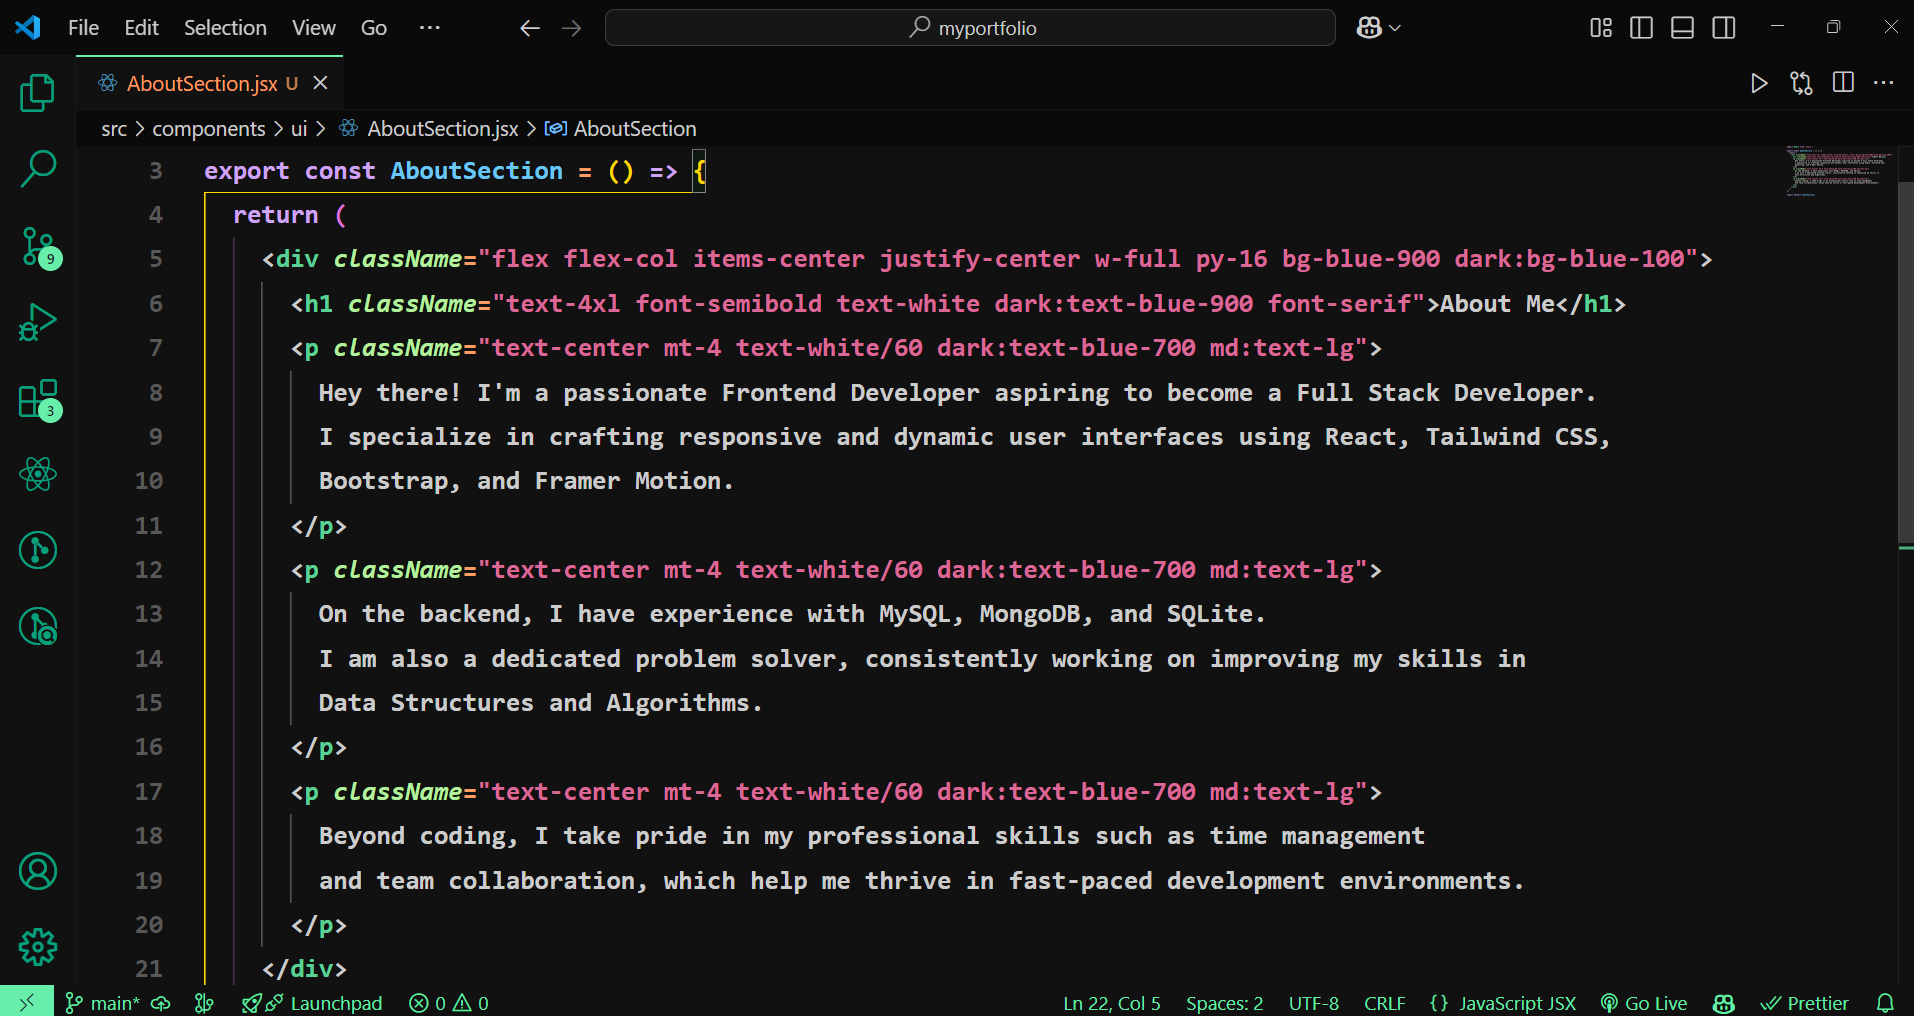
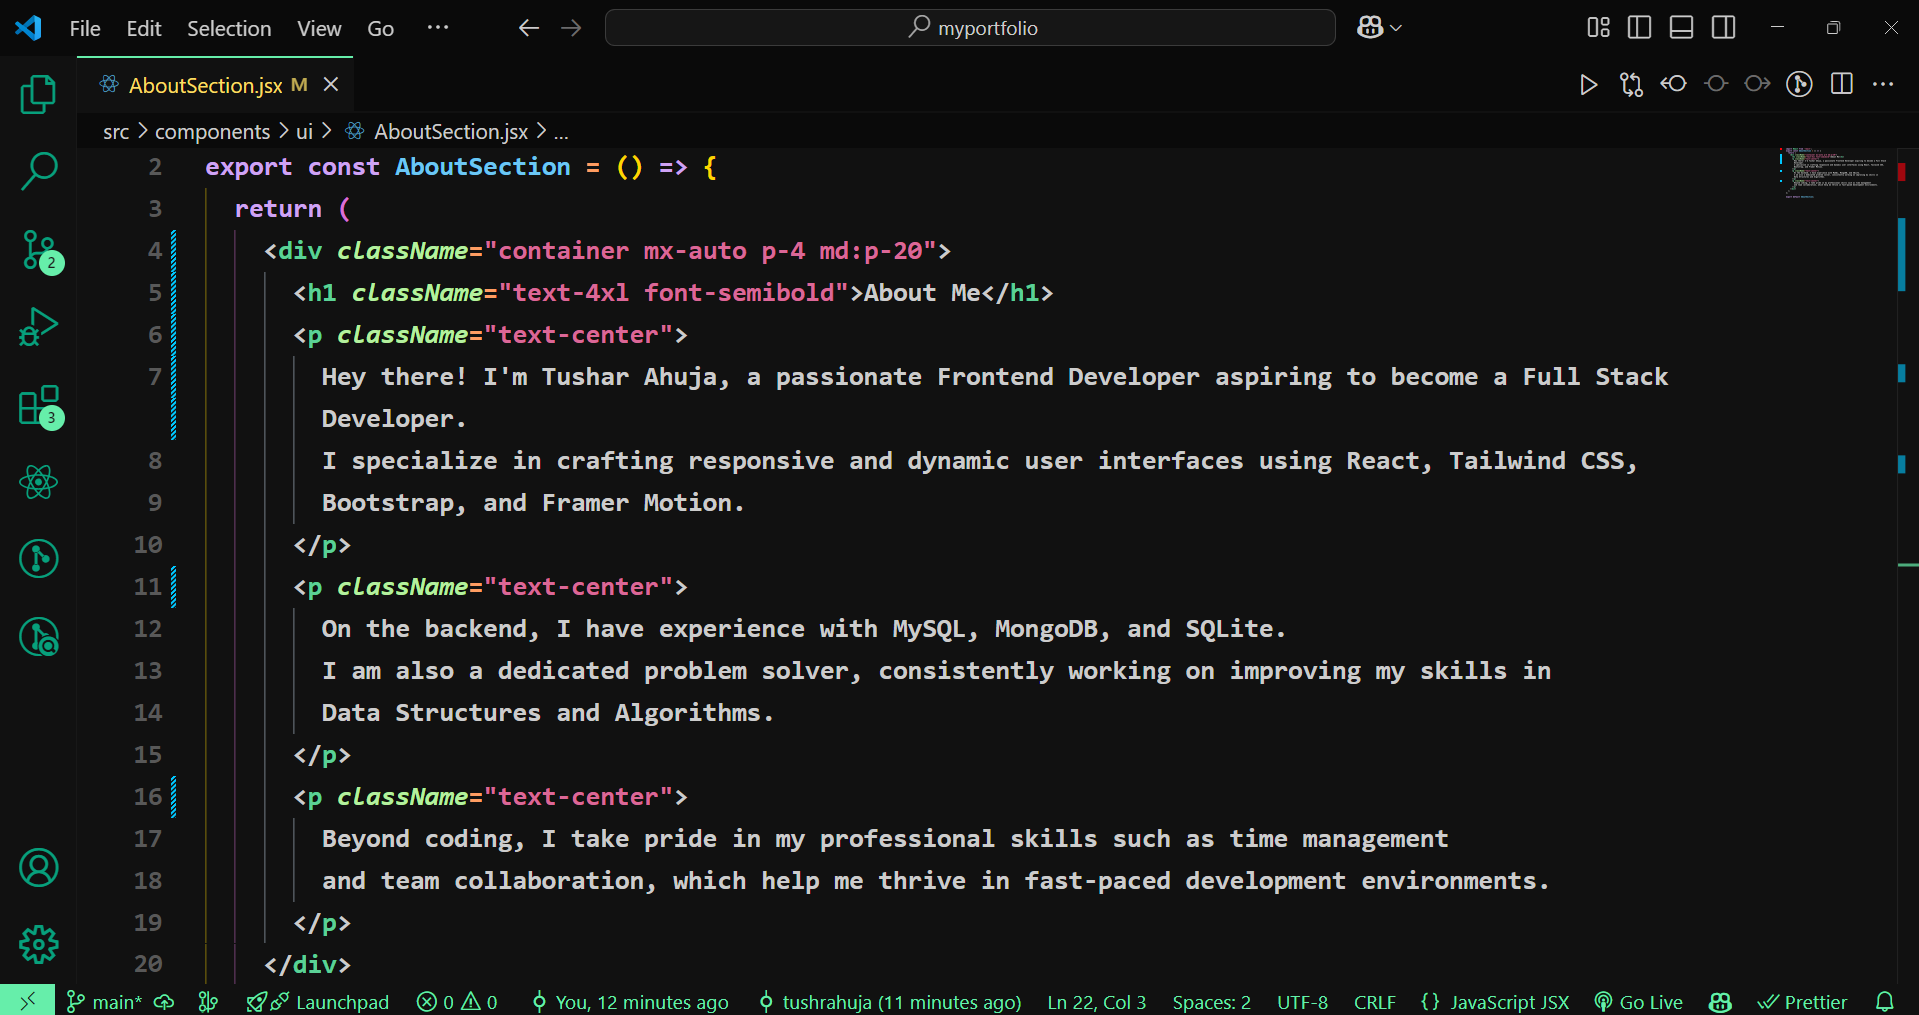
about done

diff --git a/src/components/ui/AboutSection.jsx b/src/components/ui/AboutSection.jsx
@@ -1,20 +1,19 @@
 import React from 'react';
-
 export const AboutSection = () => {
   return (
-    <div className="flex flex-col items-center justify-center w-full py-16 bg-blue-900 dark:bg-blue-100">
-      <h1 className="text-4xl font-semibold text-white dark:text-blue-900 font-serif">About Me</h1>
-      <p className="text-center mt-4 text-white/60 dark:text-blue-700 md:text-lg">
-        Hey there! I'm a passionate Frontend Developer aspiring to become a Full Stack Developer.
+    <div className="container mx-auto p-4 md:p-20">
+      <h1 className="text-4xl font-semibold">About Me</h1>
+      <p className="text-center">
+        Hey there! I'm Tushar Ahuja, a passionate Frontend Developer aspiring to become a Full Stack Developer.
         I specialize in crafting responsive and dynamic user interfaces using React, Tailwind CSS, 
         Bootstrap, and Framer Motion.
       </p>
-      <p className="text-center mt-4 text-white/60 dark:text-blue-700 md:text-lg">
+      <p className="text-center">
         On the backend, I have experience with MySQL, MongoDB, and SQLite.
         I am also a dedicated problem solver, consistently working on improving my skills in
         Data Structures and Algorithms.
       </p>
-      <p className="text-center mt-4 text-white/60 dark:text-blue-700 md:text-lg">
+      <p className="text-center">
         Beyond coding, I take pride in my professional skills such as time management
         and team collaboration, which help me thrive in fast-paced development environments.
       </p>

diff --git a/src/components/ui/container-scroll-animation.jsx b/src/components/ui/container-scroll-animation.jsx
@@ -70,9 +70,9 @@ export const Card = ({ rotate, scale, translate, children }) => {
         boxShadow:
           "0 0 #0000004d, 0 9px 20px #0000004a, 0 37px 37px #00000042, 0 84px 50px #00000026, 0 149px 60px #0000000a, 0 233px 65px #00000003",
       }}
-      className="max-w-5xl -mt-12 mx-auto h-[30rem] md:h-[40rem] w-full border-4 border-[#6C6C6C] p-2 md:p-6 bg-[#222222] rounded-[30px] shadow-2xl"
+      className="max-w-5xl -mt-12 mx-auto h-[30rem] md:h-[40rem] w-full border-4 border-black p-2 md:p-6 bg-[#222222] rounded-[30px] shadow-2xl"
     >
-      <div className="h-full w-full overflow-hidden rounded-2xl bg-gray-100 dark:bg-zinc-900 md:rounded-2xl md:p-4">
+      <div className="h-full w-full overflow-hidden rounded-2xl bg-black dark:bg-zinc-900 md:rounded-2xl md:p-4 border-4 border-lightblue dark:border-gray-600">
         {children}
       </div>
     </motion.div>
